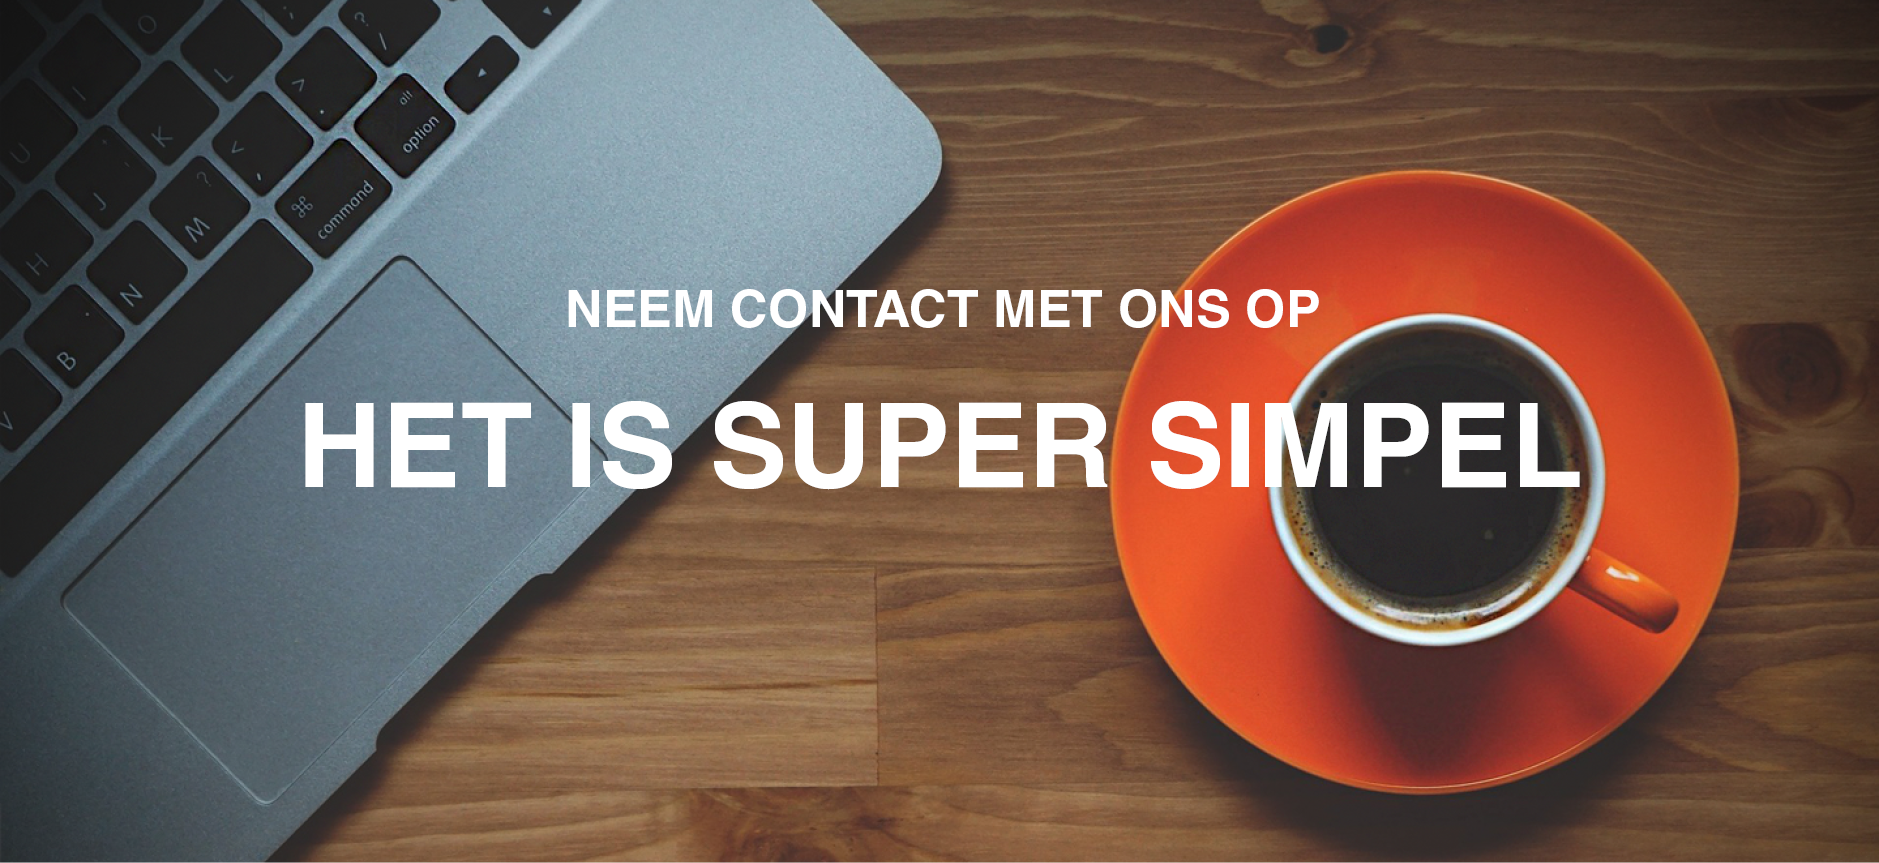
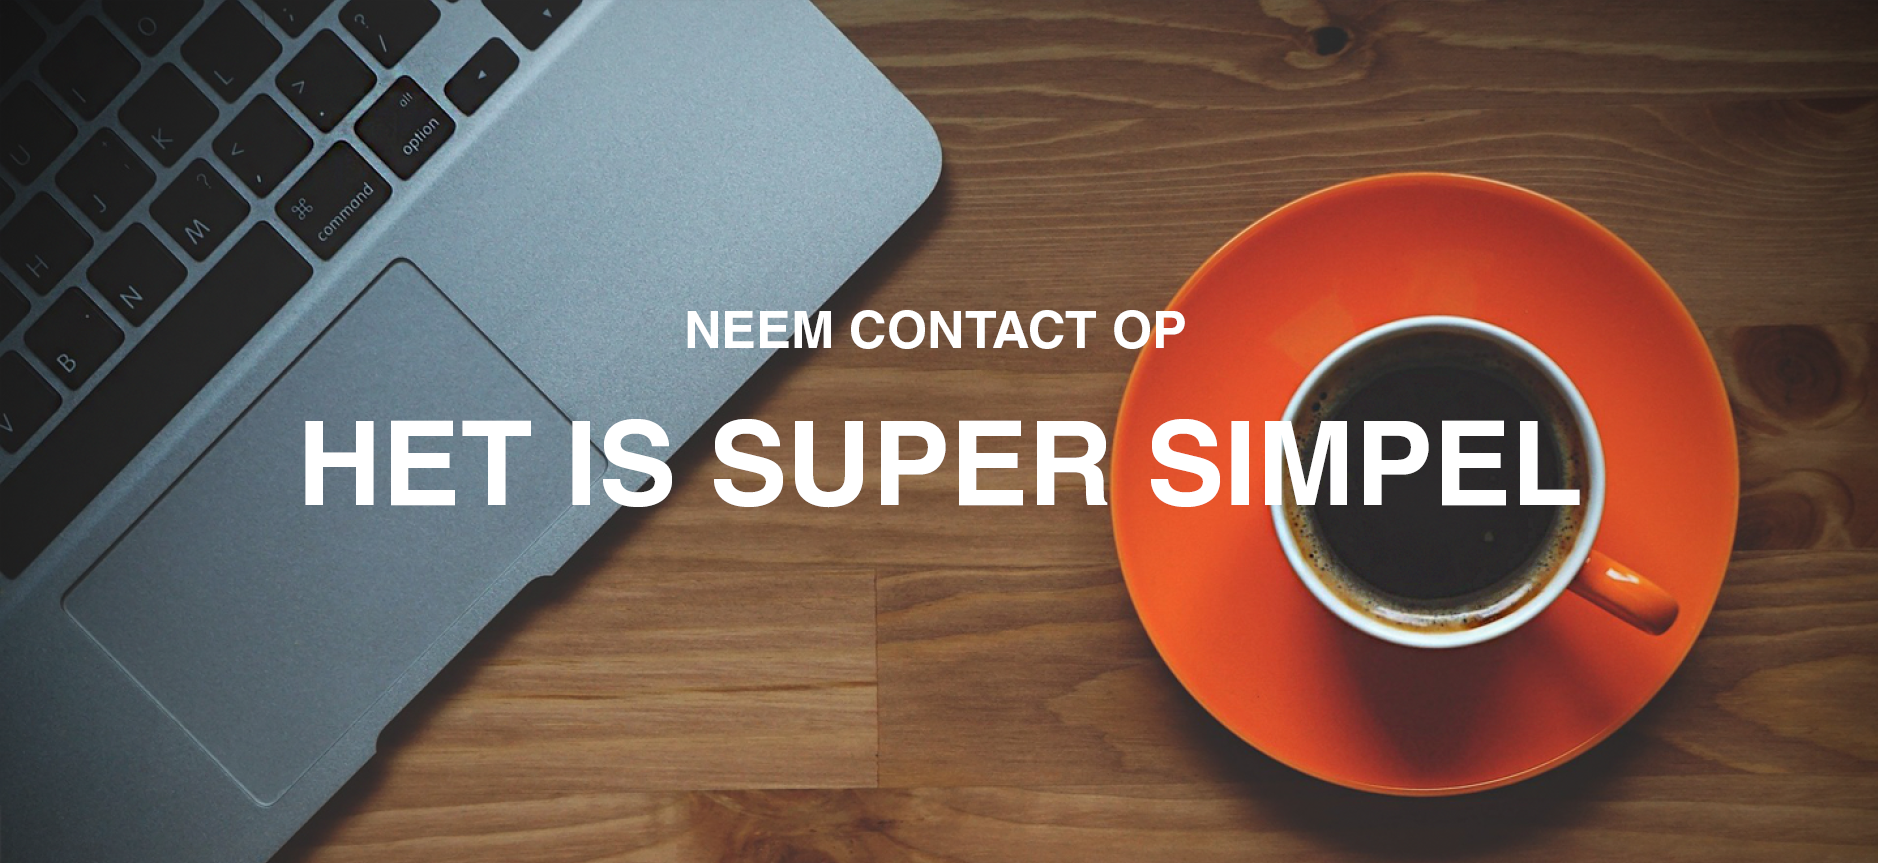
made some text changes and added something to the kernwaarden page

diff --git a/public/css/style.css b/public/css/style.css
@@ -28,18 +28,39 @@ body {
 }
 
 .shrink {
-    height: 60px;
+    height: 100px;
     -webkit-transition: all 0.7 s ease;
     transition: all 0.7s ease;
 }
 
 .shrinkimg {
-    height: 45px;
-    width: 74px;
+    height: 66px;
+    width: 80px;
+}
+
+.fotomettekst {
+   position: relative;
+   width: 100%;
+   height: 100%;
+}
+
+.fotomettekst b{
+   position: relative;
+   width: 100%;
+   height: 100%;
+   text-align: center;
 }
 
 .homepic {
     position: relative;
+    width: 100%;
+    min-width: 100%;
+}
+
+.kernwaardenpic {
+    position: relative;
+    height: 100%;
+    min-height: 100%;
     width: 100%;
     min-width: 100%;
 }
@@ -374,9 +395,19 @@ a:hover {
     color: #363845;
 }
 
+#quote8 {
+    color: white;
+    font-family: "HelveticaNeue-Light", "Helvetica Neue Light", "Helvetica Neue", Helvetica, Arial, "Lucida Grande", sans-serif;
+    font-size: 50px;
+    position: absolute;
+    left: 0;
+    top: 300px;
+}
+
 .BelowHome {
     text-align: center;
-    height: 2500px;
+    height: 100%;
+    padding-bottom: 1000px;
 }
 
 #homesuite {
@@ -431,6 +462,19 @@ a:hover {
     top: 800px;
 }
 
+.contact5 {
+    font-family: "HelveticaNeue-Light", "Helvetica Neue Light", "Helvetica Neue", Helvetica, Arial, "Lucida Grande", sans-serif;
+    font-weight: bold;
+    color: white;
+    font-size: 30px;
+    border: solid 5px white;
+    padding: 20px 80px;
+    -webkit-transition: all 0.7 s ease;
+    transition: all 0.7s ease;
+    position: relative;
+    top: 200px;
+}
+
 .contact2:hover {
     color: #363845;
     font-size: 30px;
@@ -439,7 +483,13 @@ a:hover {
     transition: all 0.7s ease;
 }
 
-
+.contact5:hover {
+    color: #363845;
+    font-size: 30px;
+    background-color: white;
+    -webkit-transition: all 0.7 s ease;
+    transition: all 0.7s ease;
+}
 
 footer {
     background-color: #292A34;
@@ -451,7 +501,6 @@ footer {
 
 #footerlogo {
     position: relative;
-    bottom: 70px;
 }
 
 #watfooter {
@@ -499,37 +548,33 @@ footer {
     right: 270px;
 }
 
+#kvknummer {
+    position: relative;
+    color: white;
+    left: 15px;
+    font-family: "HelveticaNeue-Light", "Helvetica Neue Light", "Helvetica Neue", Helvetica, Arial, "Lucida Grande", sans-serif;
+}
+
 @media screen and (min-width: 1200px) and (max-width: 1599px){
     .underbar ul li{
-        padding-right: 10px;
+        padding-right: 50px;
     }
 
     .shrink {
         height: 80px;
     }
 
-    .footerlinks {
-        position: relative;
-        left: 120px;
-    }
-
-    .footerlinks2 {
-        position: relative;
-        left: 90px;
-    }
-
     #kernwaardentekst {
         font-size: 100px;
     }
 
-
-
+    .formwrap {
+        position: relative;
+        left: 200px;
+    }
 }
 
 @media screen and (min-width: 1024px) and (max-width: 1216px) {
-    .underbar ul li{
-        padding-right: 10px;
-    }
 
     .shrink {
         height: 140px;
@@ -537,6 +582,15 @@ footer {
 
     #kernwaardentekst {
         font-size: 100px;
+    }
+
+    .underbar ul li{
+        padding-right: 40px;
+    }
+
+    .formwrap {
+        position: relative;
+        left: 200px;
     }
 }
 
@@ -566,7 +620,7 @@ footer {
 
     #navlogo2 {
         height: 122px;
-        width: 200px;
+        width: 147px;
     }
 
     .underbar {
@@ -639,5 +693,22 @@ footer {
         font-size: 100px;
     }
 
+    .kernwaardenpic {
+        display: none;
+    }
+
+    #quote8 {
+        position: relative;
+        top:0;
+    }
+
+    .contact5 {
+        top: 50px;
+    }
+
+    .fotomettekst {
+        height: 500px;
+        text-align: center;
+    }
 
 }

diff --git a/app.js b/app.js
@@ -21,6 +21,9 @@ app.get('/contact', function(req, res) {
     res.render('contact');
 });
 
+app.get('/services', function(req, res) {
+    res.render('services');
+});
 
 app.listen(5000, function(err) {
     console.log('Server is running on port 5000');

diff --git a/public/js/script.js b/public/js/script.js
@@ -19,7 +19,7 @@ $( document ).ready(function() {
                   $('.topbar').css('display', 'block');
               }
 
-             
+
           }
 
 
